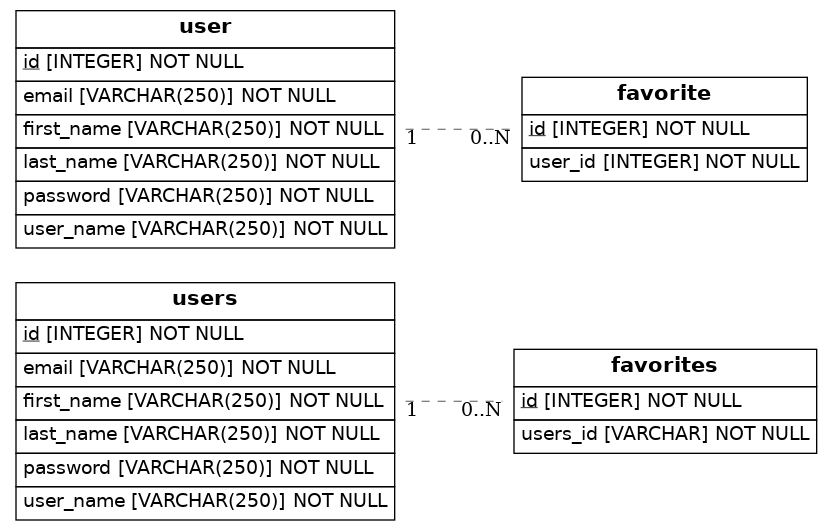
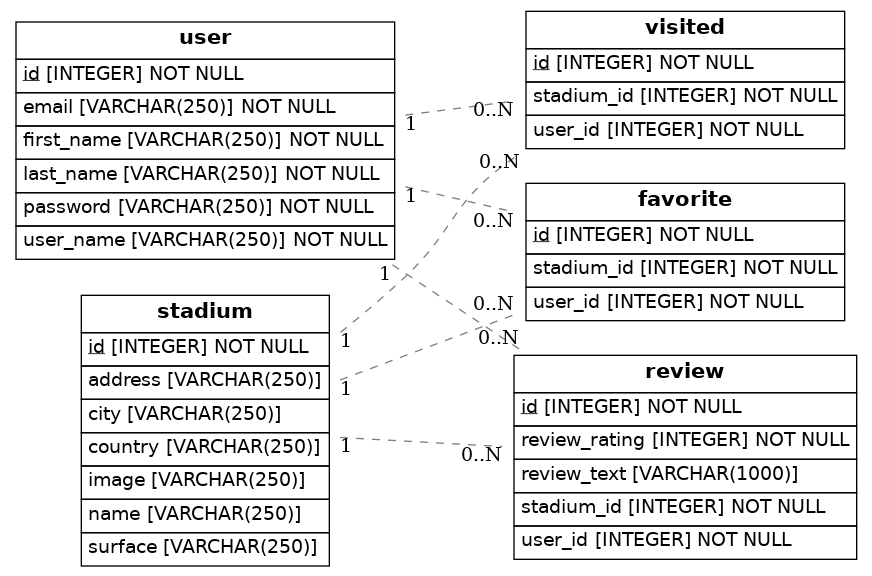
Created a model to be used in the final project

Changed region(s): [[0.0, 0.0, 1.0, 0.9944], [0.5312, 0.0, 0.9688, 0.6026], [0.4375, 0.5725, 0.5, 0.6328]]

diff --git a/src/models.py b/src/models.py
@@ -8,38 +8,52 @@ from eralchemy2 import render_er
 # From Educative
 # from flask_sqlalchemy import SQLAlchemy
 # db = SQLAlchemy(app)
-
-
 Base = declarative_base()
 
-# MODEL 1: s-model | Version: Educative 
+# TESTING
+# MODEL 1: s-model | Version: Educative - creating the relationship on the Table without FK (the parent)  
 # A Favorite can belong only to 1 User  [An Employee can be assiciated with only 1 Department] > FK on Favorite table
 # A User can have many Favorites [A Department can have multiple Employees] > relationship on User table 
 
-class Users(Base):
-    __tablename__ = 'users'
-    id = Column(Integer, primary_key=True)
-    first_name = Column(String(250), nullable=False)
-    last_name = Column(String(250), nullable=False)
-    user_name = Column(String(250), nullable=False)
-    email = Column(String(250), unique=True, nullable=False)
-    password = Column(String(250), nullable=False)
-    # Added
-    favorites = relationship('Favorites', backref = 'users')
+# class Users(Base):
+#     __tablename__ = 'users'
+#     id = Column(Integer, primary_key=True)
+#     first_name = Column(String(250), nullable=False)
+#     last_name = Column(String(250), nullable=False)
+#     user_name = Column(String(250), nullable=False)
+#     email = Column(String(250), unique=True, nullable=False)
+#     password = Column(String(250), nullable=False)
+#     # Added
+#     favorites = relationship('Favorites', backref = 'users')
 
-class Favorites(Base):
-    __tablename__ = 'favorites'
-    id = Column(Integer, primary_key=True)
-    #Added
-    users_id = Column(String, ForeignKey('users.id'), nullable = False)
+# class Favorites(Base):
+#     __tablename__ = 'favorites'
+#     id = Column(Integer, primary_key=True)
+#     #Added
+#     users_id = Column(String, ForeignKey('users.id'), nullable = False)
 
-    # stadiums = relationship('Stadiums', backref = 'favorites')
-    # user_id = Column(Integer, ForeignKey("user.id"))
-    # stadium_id = Column(Integer, ForeignKey("stadium.id"))
-    # stadiums = relationship('Stadiums')
-    # users = relationship('User')
 
-# MODEL 2 | Version: Star wars template 
+# TESTING
+# MODEL 2 | Version: Star wars template - creating the relationship on the same Table as the FK (the child)
+
+# class User(Base):
+#     __tablename__ = 'user'
+#     id = Column(Integer, primary_key=True)
+#     first_name = Column(String(250), nullable=False)
+#     last_name = Column(String(250), nullable=False)
+#     user_name = Column(String(250), nullable=False)
+#     email = Column(String(250), unique=True, nullable=False)
+#     password = Column(String(250), nullable=False)
+
+# class Favorite(Base):
+#     __tablename__ = 'favorite'
+#     id = Column(Integer, primary_key=True)
+#     user_id = Column(Integer, ForeignKey("user.id"))
+#     users = relationship('User', backref="favorite")
+   
+
+# MODEL 3 | Version: Leo's recommendation - creating the relationship on both Tables (parent and child)
+
 class User(Base):
     __tablename__ = 'user'
     id = Column(Integer, primary_key=True)
@@ -48,49 +62,48 @@ class User(Base):
     user_name = Column(String(250), nullable=False)
     email = Column(String(250), unique=True, nullable=False)
     password = Column(String(250), nullable=False)
+    favorite_table = relationship('Favorite', backref="user")
+    visited_table = relationship('Visited', backref="user")
+    review_table = relationship('Review', backref="user")
 
 class Favorite(Base):
     __tablename__ = 'favorite'
     id = Column(Integer, primary_key=True)
-    user_id = Column(Integer, ForeignKey("user.id"), nullable=False)  
-    users = relationship('User', backref = 'favorite')
+    user_id = Column(Integer, ForeignKey("user.id"), nullable=False)
+    user_table = relationship('User', backref="favorite")
+    stadium_id = Column(Integer, ForeignKey("stadium.id"), nullable=False)
+    stadium_table = relationship('Stadium', backref="favorite")
     
+class Visisted(Base):
+    __tablename__ = 'visited'
+    id = Column(Integer, primary_key=True)
+    user_id = Column(Integer, ForeignKey("user.id"), nullable=False)
+    user_table = relationship('User', backref="visited")
+    stadium_id = Column(Integer, ForeignKey("stadium.id"), nullable=False)
+    stadium_table = relationship('Stadium', backref="visited")
 
+class Review(Base):
+    __tablename__ = 'review'
+    id = Column(Integer, primary_key=True)
+    user_id = Column(Integer, ForeignKey("user.id"), nullable=False)
+    user_table = relationship('User', backref="review")
+    stadium_id = Column(Integer, ForeignKey("stadium.id"), nullable=False)
+    stadium_table = relationship('Stadium', backref="review")
+    review_rating = Column(Integer, nullable=False) # to make it Impossible to send a review witout a rating
+    review_text = Column(String(1000), nullable=True) # to make it possible to send a review witout a text
 
-# class Visisted(Base):
-#     __tablename__ = 'visited'
-#     id = Column(Integer, primary_key=True)
-#     user_id = Column(Integer, ForeignKey("user.id"))
-#     stadium_id = Column(Integer, ForeignKey("stadium.id"))
-
-#     # stadiums = relationship('Stadiums')
-#     # users = relationship('User')
-
-# class Reviews(Base):
-#     __tablename__ = 'reviews'
-#     id = Column(Integer, primary_key=True)
-#     user_id = Column(Integer, ForeignKey("user.id"))
-#     stadium_id = Column(Integer, ForeignKey("stadium.id"))
-#     review_rating = Column(Integer, nullable=False)
-#     review_text = Column(String(1000), nullable=False)
-#     # stadiums = relationship('Stadiums')
-#     # users = relationship('User')
-
-# class Stadiums(Base):
-#     __tablename__ = 'stadiums'
-#     id = Column(Integer, primary_key=True)
-#     name = Column(String(250))
-#     address = Column(String(250))
-#     city = Column(String(250))
-#     country = Column(String(250))
-#     surface = Column(String(250))
-#     image = Column(String(250))
-#     # favorites = Column(Integer, ForeignKey('favorites.id'))
-#     # reviews = Column(Integer, ForeignKey('reviews.id'))
-#     # visited = Column(Integer, ForeignKey('visited.id'))
-#     # reviews = Column(Integer, ForeignKey('review.id'))
-
-
+class Stadium(Base):
+    __tablename__ = 'stadium'
+    id = Column(Integer, primary_key=True)
+    name = Column(String(250))
+    address = Column(String(250))
+    city = Column(String(250))
+    country = Column(String(250))
+    surface = Column(String(250))
+    image = Column(String(250))
+    favorite_table = relationship('Favorite', backref="stadium")
+    visited_table = relationship('Visited', backref="stadium")
+    review_table = relationship('Review', backref="stadium")
 
 
 
